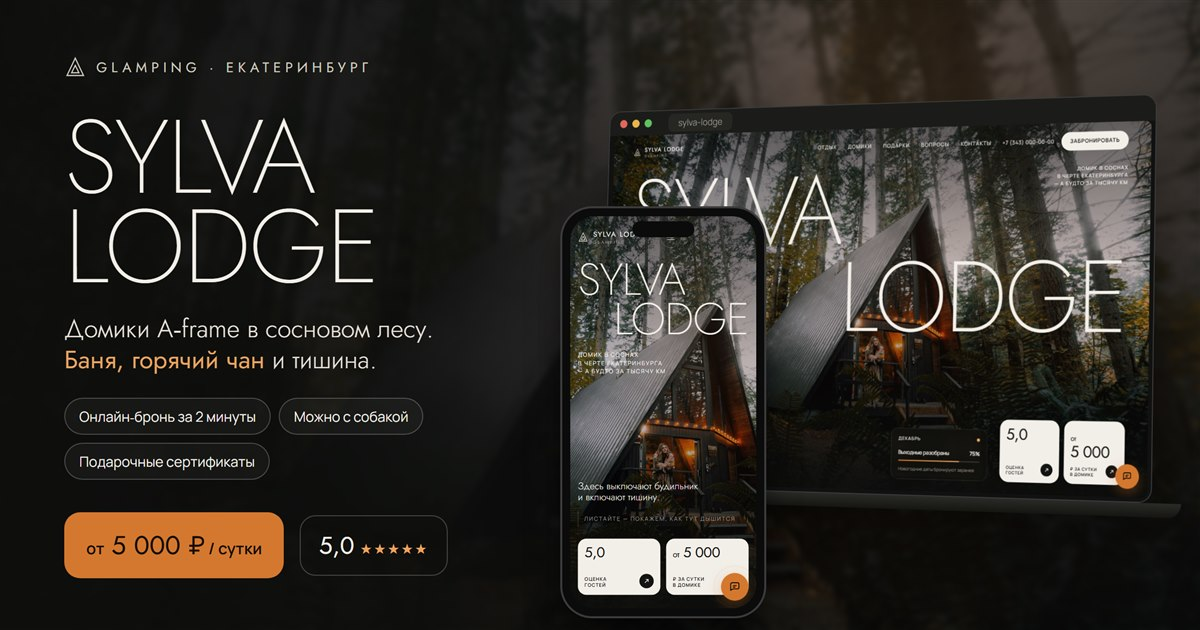
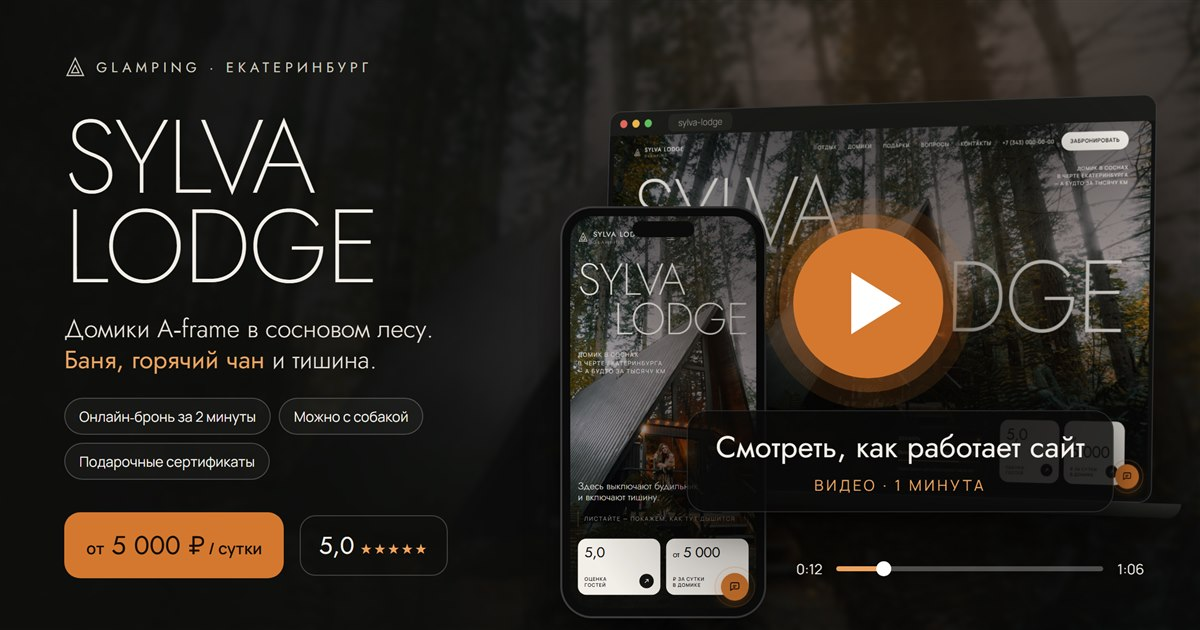
Превью ссылки «как видео»: кнопка ▶, подпись и полоска плеера
og-image.jpg заменён карточкой с кнопкой воспроизведения и подписью
«Смотреть, как работает сайт». Макет: превью/preview.html#video.

diff --git a/превью/preview.html b/превью/preview.html
@@ -45,6 +45,20 @@ h1 span{display:block}
 .pvp{position:relative;width:186px;height:392px;border-radius:24px;overflow:hidden}
 .pvp iframe{position:absolute;left:0;top:0;width:390px;height:822px;border:0;transform:scale(.4769);transform-origin:0 0}
 .notch{position:absolute;top:13px;left:50%;width:62px;height:16px;margin-left:-31px;border-radius:10px;background:#0b0b0a;z-index:2}
+
+/* «Видео»: затемнение, кнопка ▶, подпись и полоска плеера (body.video) */
+.vshade{display:none;position:absolute;left:520px;top:80px;right:0;bottom:0;background:radial-gradient(circle at 54% 52%,rgba(8,8,7,.55),rgba(8,8,7,.15) 60%,transparent 75%)}
+.play{display:none;position:absolute;left:793px;top:228px;width:150px;height:150px;border-radius:50%;background:#d4782f;box-shadow:0 0 0 14px rgba(212,120,47,.28),0 0 0 30px rgba(212,120,47,.12),0 24px 60px rgba(0,0,0,.6)}
+.play::after{content:"";position:absolute;left:58px;top:44px;border-style:solid;border-width:31px 0 31px 50px;border-color:transparent transparent transparent #fff}
+.vcap{display:none;position:absolute;left:600px;right:0;top:410px;text-align:center;font-family:'Jost';font-weight:400;font-size:30px;letter-spacing:.01em;text-shadow:0 2px 16px rgba(0,0,0,.9)}
+.vcap .pill{display:inline-block;padding:14px 28px 16px;border-radius:20px;background:rgba(10,10,8,.82);border:1px solid rgba(255,255,255,.12);box-shadow:0 18px 40px rgba(0,0,0,.5);text-shadow:none}
+.vcap small{display:block;margin-top:6px;font-family:'Manrope';font-size:15px;letter-spacing:.18em;text-transform:uppercase;color:#eba35f}
+.vbar{display:none;position:absolute;left:796px;right:56px;bottom:52px;align-items:center;gap:14px;font-size:14px;color:#e9e3da;text-shadow:0 1px 6px rgba(0,0,0,.9)}
+.vbar .track{flex:1;height:5px;border-radius:3px;background:rgba(255,255,255,.28);position:relative}
+.vbar .track i{position:absolute;left:0;top:0;bottom:0;width:18%;border-radius:3px;background:#eba35f}
+.vbar .track i::after{content:"";position:absolute;right:-7px;top:-5px;width:15px;height:15px;border-radius:50%;background:#fff}
+body.video .vshade,body.video .play,body.video .vcap{display:block}
+body.video .vbar{display:flex}
 </style>
 </head>
 <body>
@@ -73,5 +87,11 @@ h1 span{display:block}
   <div class="notch"></div>
   <div class="pvp"><iframe src="http://localhost:8765/?shot" scrolling="no"></iframe></div>
 </div>
+
+<div class="vshade"></div>
+<div class="play"></div>
+<div class="vcap"><span class="pill">Смотреть, как работает сайт<small>видео · 1 минута</small></span></div>
+<div class="vbar"><span>0:12</span><div class="track"><i></i></div><span>1:06</span></div>
+<script>if(location.hash==='#video')document.body.classList.add('video')</script>
 </body>
 </html>
